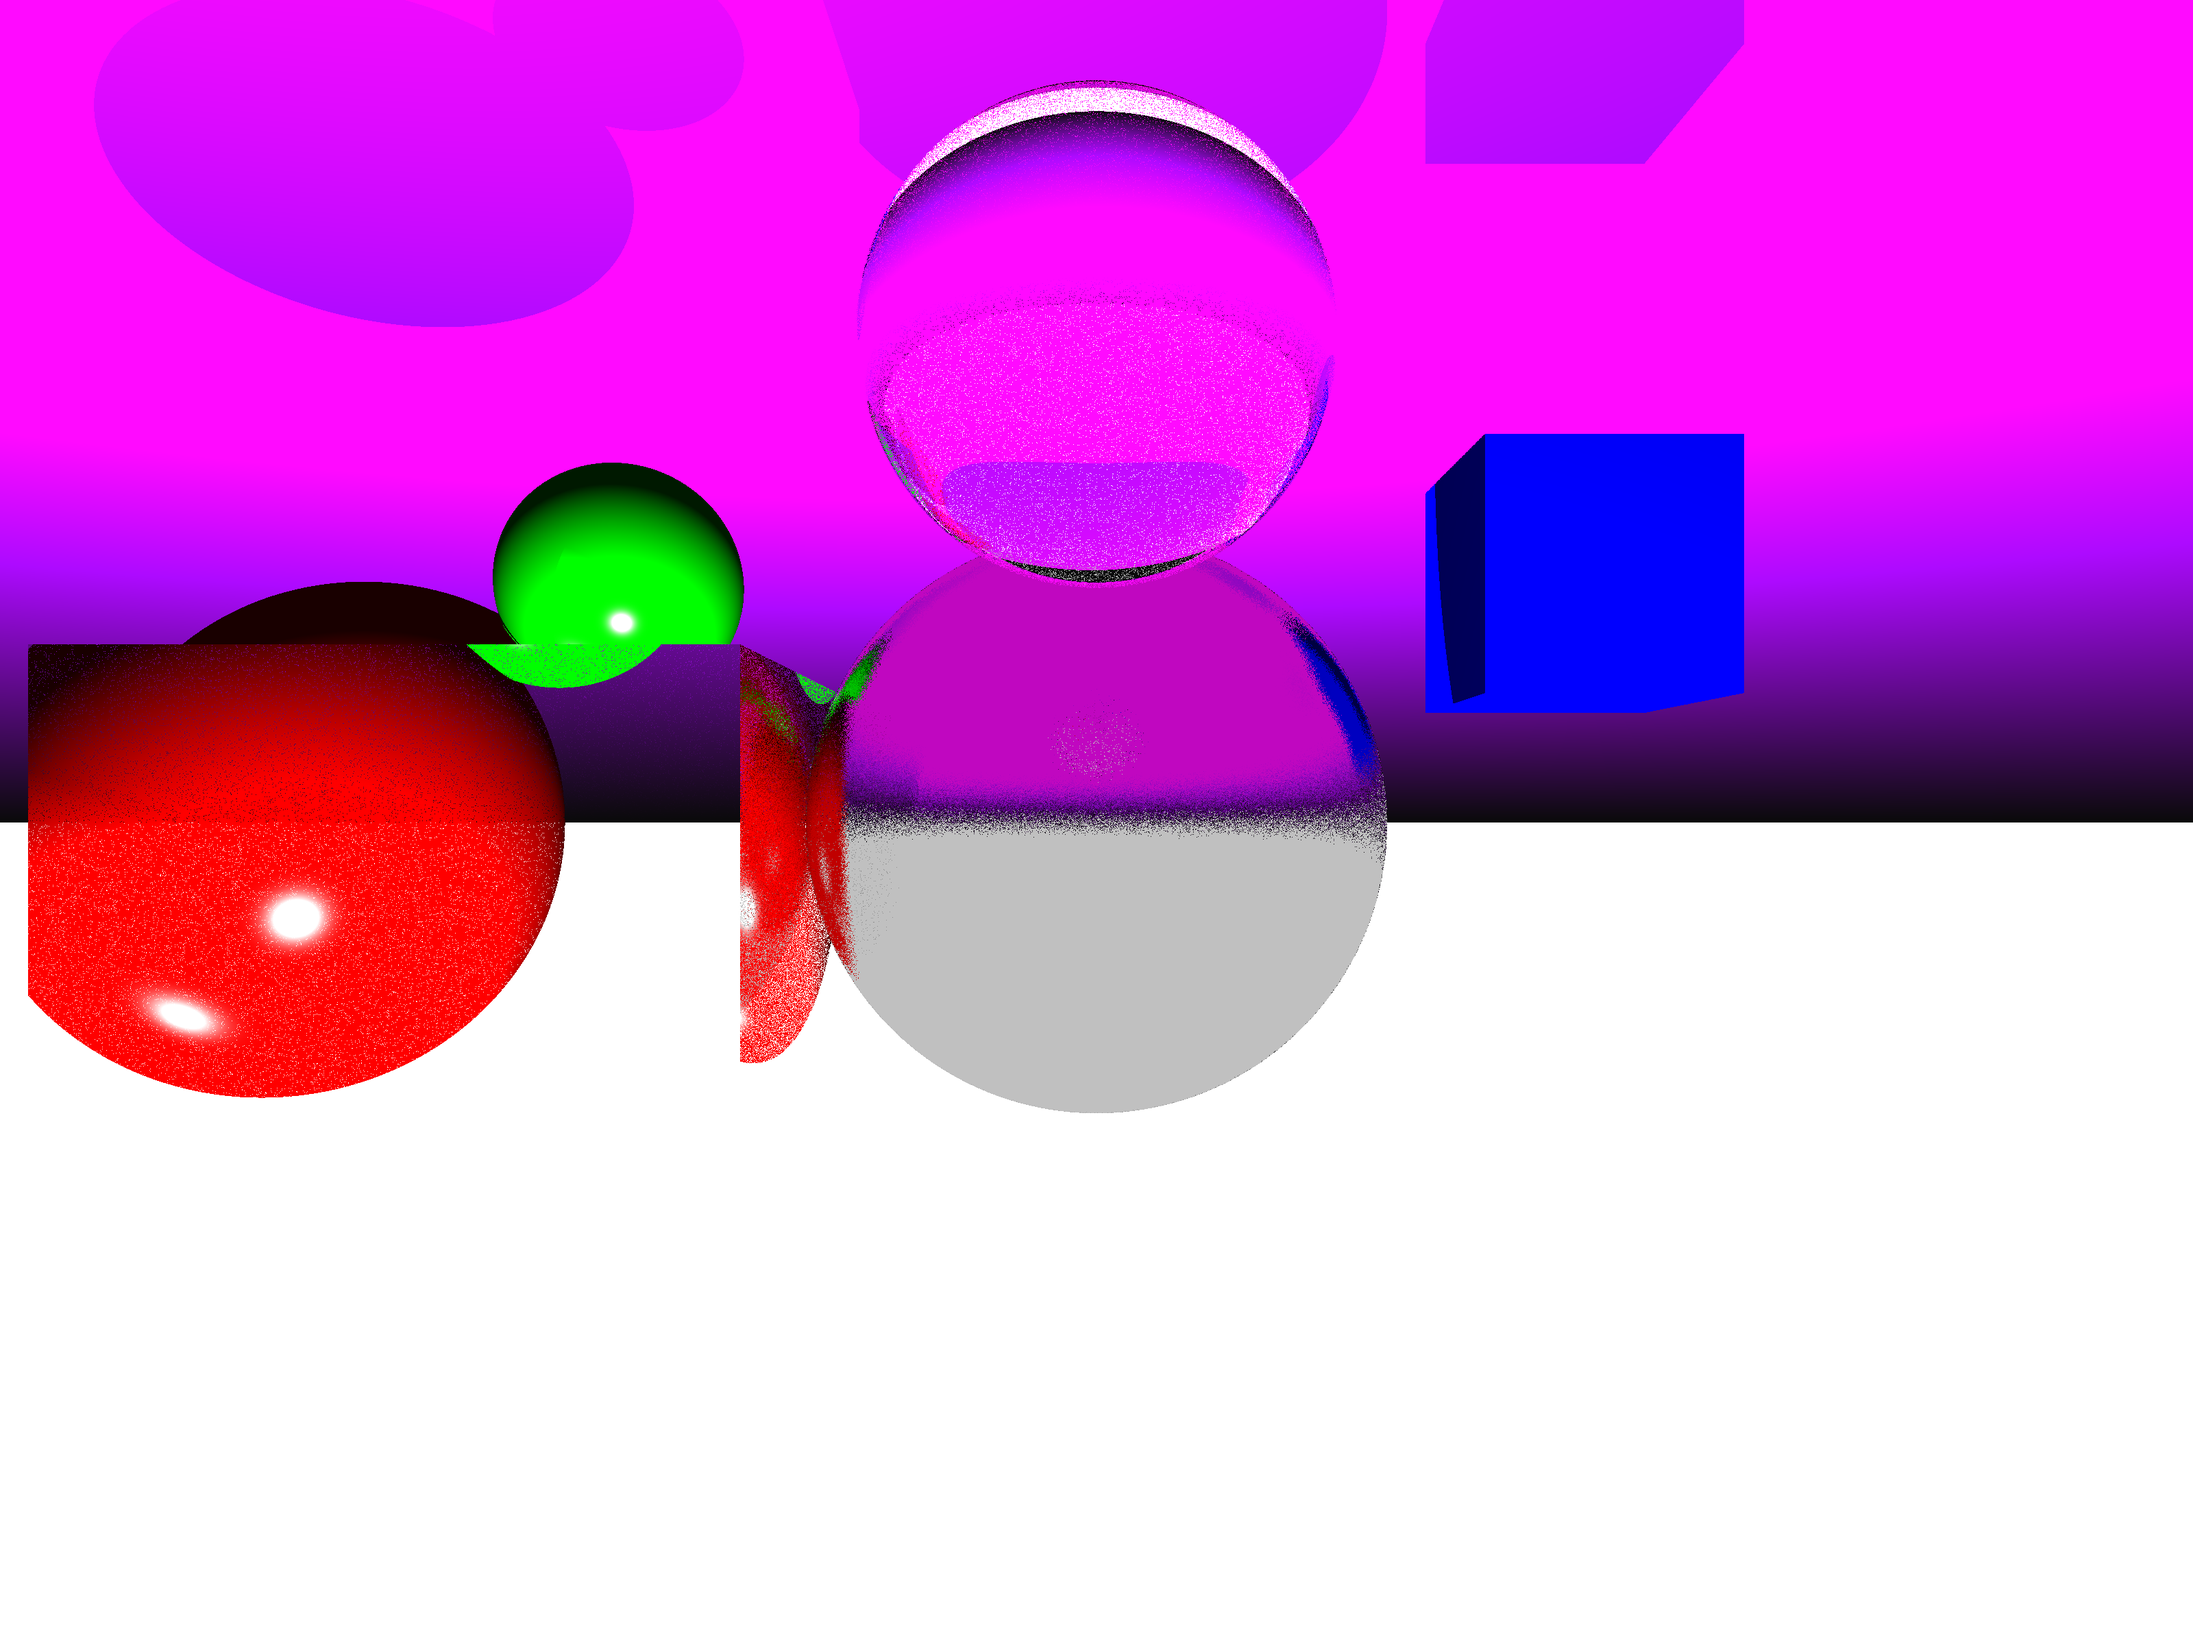
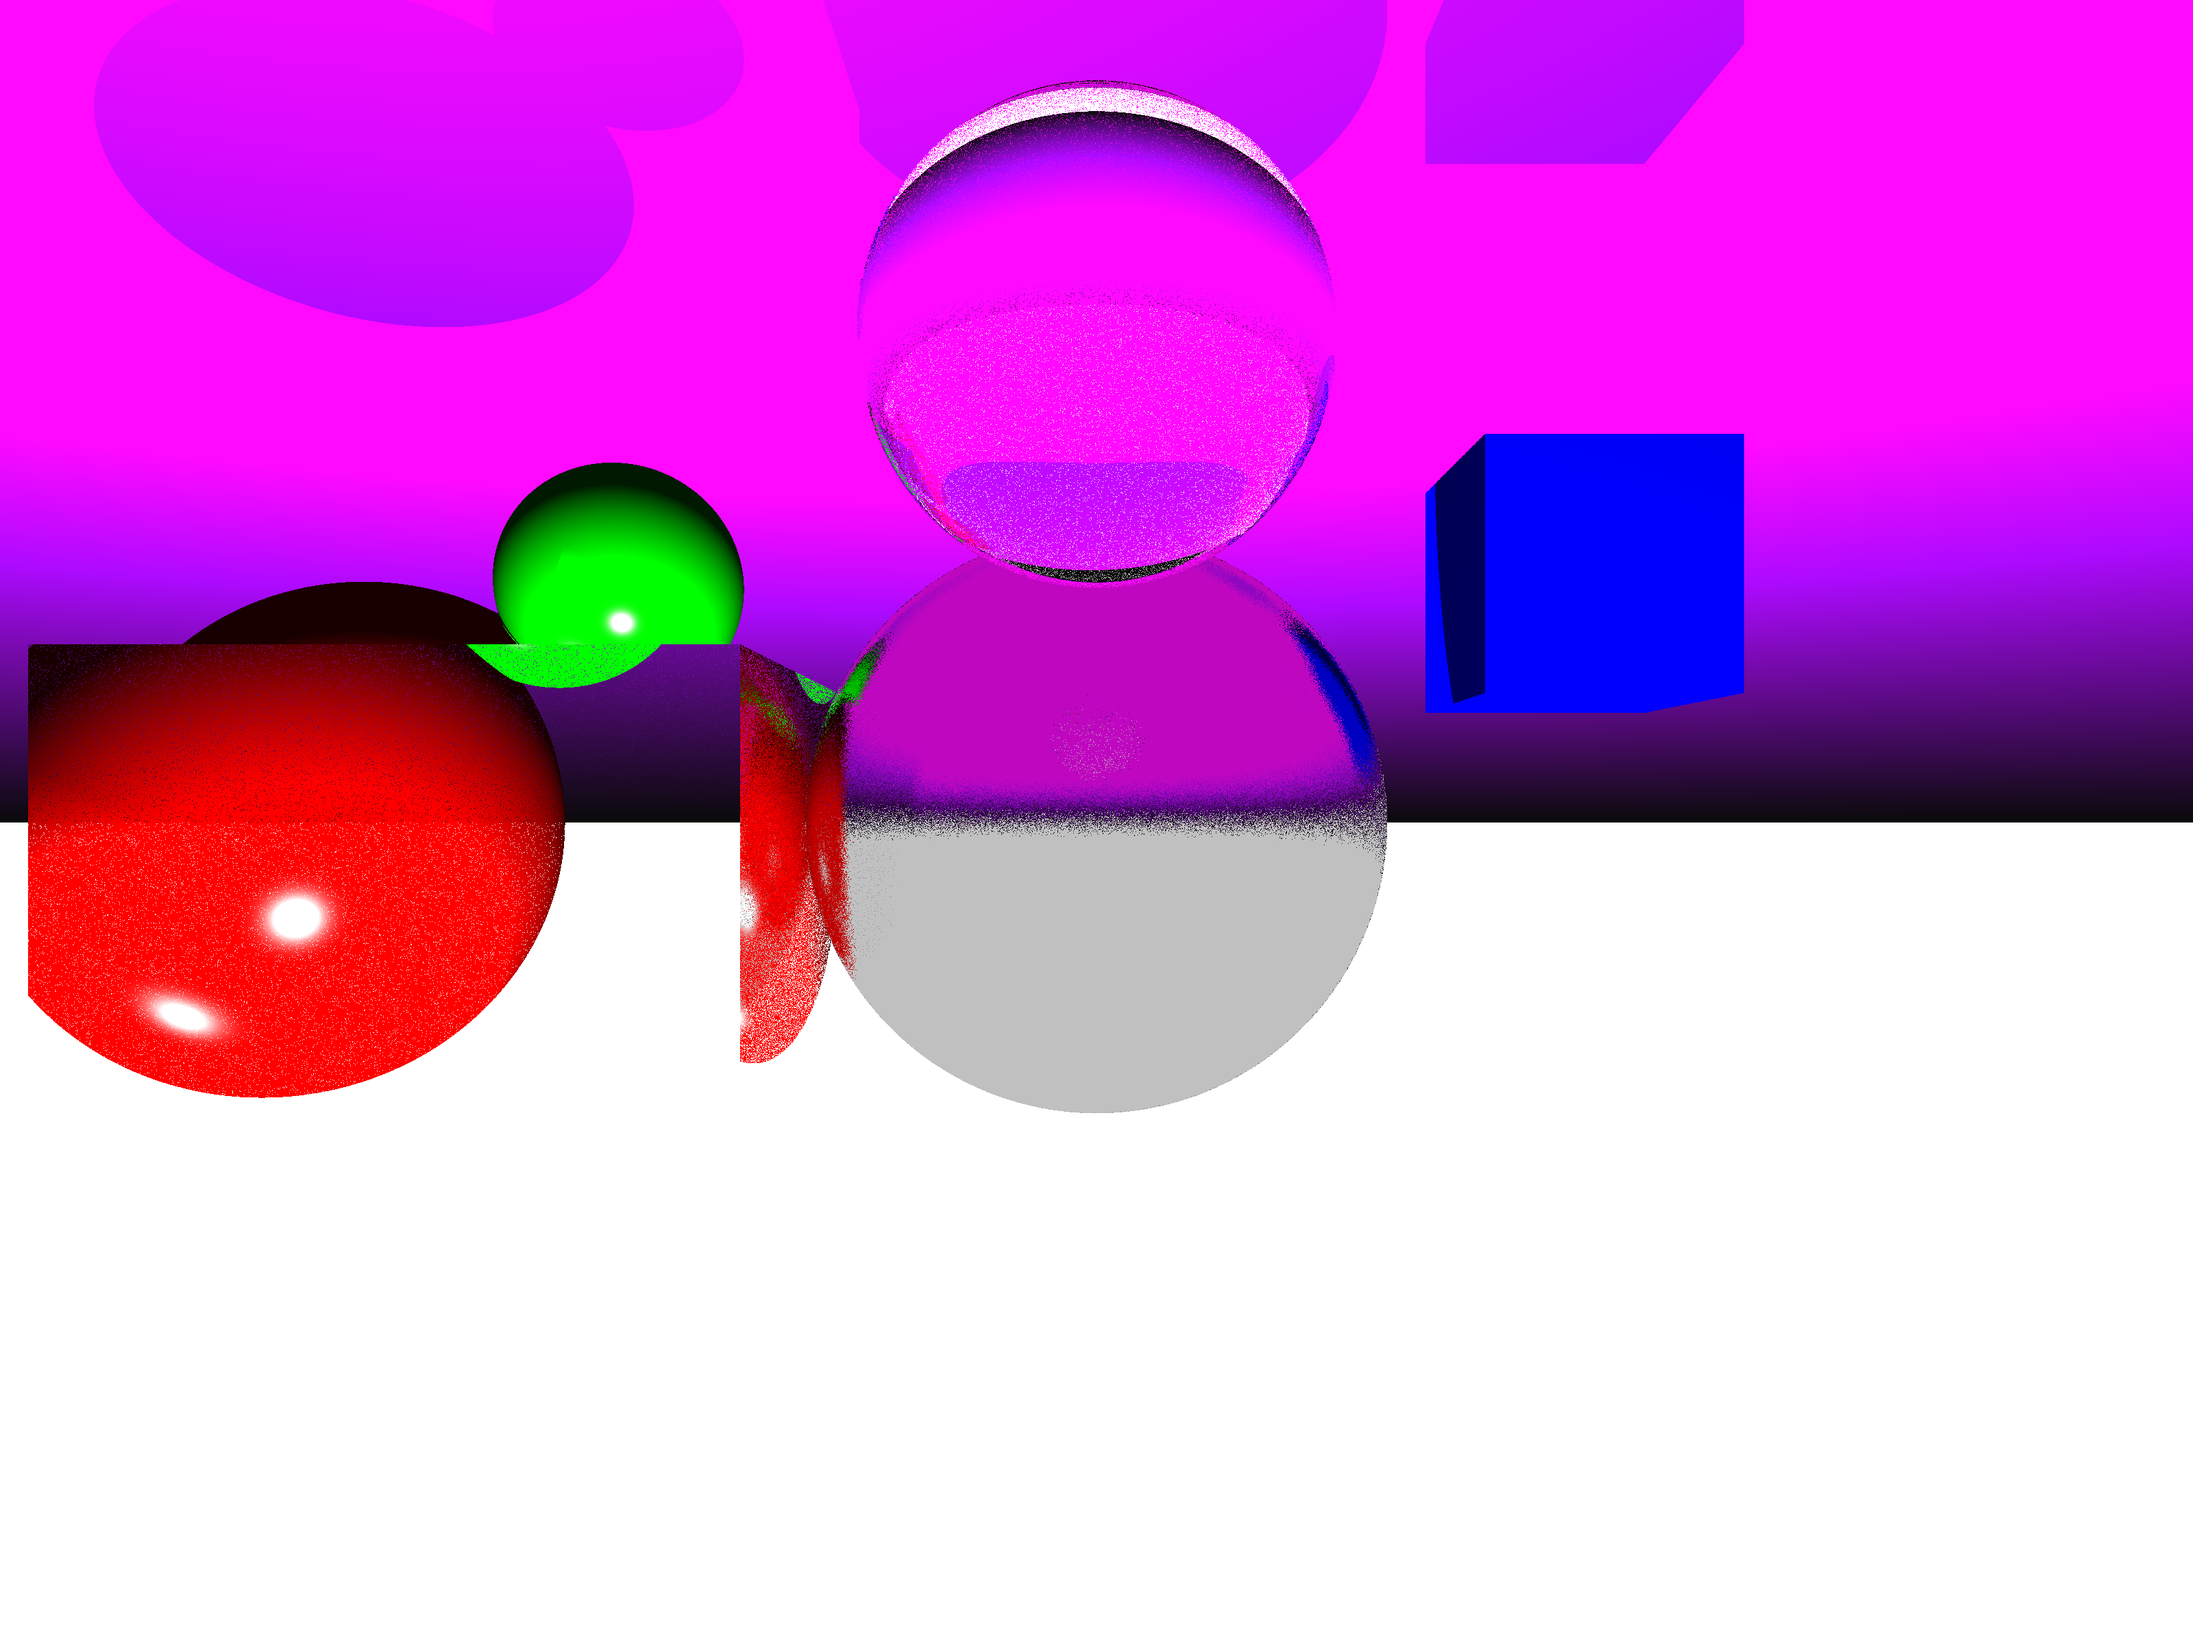
Minor updates

diff --git a/src/main/java/org/example/Main.java b/src/main/java/org/example/Main.java
@@ -34,7 +34,7 @@ public class Main {
     public static final int SCALE = 4;
     public static final int WIDTH = 800 * SCALE;
     public static final int HEIGHT = 600 * SCALE;
-    public static final int MAX_DEPTH = 15;
+    public static final int MAX_DEPTH = 7;
 
     public static void main(String[] args) throws IOException {
         BufferedImage image = new BufferedImage(WIDTH, HEIGHT, BufferedImage.TYPE_INT_RGB);
@@ -48,9 +48,9 @@ public class Main {
         Texture earthTexture = new ImageTexture("src/main/resources/earth.jpg");
 
         SinusoidalTexture sinusoidalTexture = new SinusoidalTexture();
-        sinusoidalTexture.setBase(new Color(120, 110, 100));
+        sinusoidalTexture.setBase(new Color(255, 126, 0));
         sinusoidalTexture.setMultiply(100);
-        sinusoidalTexture.setVeined(new Color(200, 200, 200));
+        sinusoidalTexture.setVeined(new Color(0, 119, 255));
 
         // TextureMaterial
         Material earth = new TextureMaterial(earthTexture);
@@ -73,6 +73,23 @@ public class Main {
 
         // Metal
         Material metal = new MetalMaterial(new Color(192, 192, 192), 0.1);
+
+        Material wall2Material = new TextureMaterial(
+                new GradientTexture(
+                        new Color(255, 0, 0),
+                        new Color(0, 61, 255),
+                        -3, 5.0 // диапазон Y в сцене
+                )
+        );
+
+        Material backgroundMat = new TextureMaterial(
+                new GradientTexture(
+                        new Color(239, 239, 239), // bottom — светло-серый
+                        new Color(0, 70, 255),  // top — небесный синий
+                        -1.5, 3.0                 // диапазон Y сцены
+                )
+        );
+
 
         scene.addObject(new Plane(new Vector3(0, -6, 0), new Vector3(0, 1, 0), wallMaterial));  // потолок
 //        scene.addObject(new Plane(new Vector3(0, 5, 0),    new Vector3(0, -1, 0), wallMaterial)); // пол
@@ -114,48 +131,50 @@ public class Main {
         int[][] pixelBuffer = new int[HEIGHT][WIDTH];
 
         // Рендеринг сцены с прогресс-баром
+//
         try (ProgressBar pb = new ProgressBar("Ray tracing", WIDTH * HEIGHT)) {
             List<Future<?>> tasks = new ArrayList<>();
 
             for (int y = 0; y < HEIGHT; y++) {
-                final int row = y;
-                tasks.add(executor.submit(() -> {
-                    for (int x = 0; x < WIDTH; x++) {
-                        Ray ray = camera.getRay(x, row);
-                        Color color = scene.trace(ray, MAX_DEPTH);
-                        pixelBuffer[row][x] = color.getRGB();
-                        pb.step();
-                        pixelCounter.incrementAndGet();
-                    }
-                }));
-            }
-
-            for (Future<?> task : tasks) {
-                try {
-                    task.get();
-                } catch (Exception e) {
-                    e.printStackTrace();
+                //                tasks.add(executor.submit(() -> {
+                for (int x = 0; x < WIDTH; x++) {
+                    Ray ray = camera.getRay(x, y);
+                    Color color = scene.trace(ray, MAX_DEPTH);
+                    pixelBuffer[y][x] = color.getRGB();
+                    pb.step();
+                    pixelCounter.incrementAndGet();
+//                    }
+//                }));
+//            }
                 }
             }
-        }
+//            for (Future<?> task : tasks) {
+//                try {
+//                    task.get();
+//                } catch (Exception e) {
+//                    e.printStackTrace();
+//                }
+//            }
+//        }
 
-        long endTime = System.nanoTime();
-        executor.shutdown();
+            long endTime = System.nanoTime();
+            executor.shutdown();
 
-        for (int y = 0; y < HEIGHT; y++) {
-            for (int x = 0; x < WIDTH; x++) {
-                image.setRGB(x, y, pixelBuffer[y][x]);
+            for (int y = 0; y < HEIGHT; y++) {
+                for (int x = 0; x < WIDTH; x++) {
+                    image.setRGB(x, y, pixelBuffer[y][x]);
+                }
             }
+
+            // Сохранение изображения
+            try (ProgressBar progressBar = new ProgressBar("Saving file", 1)) {
+                ImageIO.write(image, "png", new File("output.png"));
+                progressBar.step();
+            }
+
+            double duration = (endTime - startTime) / 1_000_000_000.0;
+
+            System.out.println("Время рендеринга: " + String.format("%.2f", duration) + "c.");
         }
-
-        // Сохранение изображения
-        try (ProgressBar pb = new ProgressBar("Saving file", 1)) {
-            ImageIO.write(image, "png", new File("output.png"));
-            pb.step();
-        }
-
-        double duration = (endTime - startTime) / 1_000_000_000.0;
-
-        System.out.println("Время рендеринга: " + String.format("%.2f", duration) + "c.");
     }
 }

diff --git a/src/main/java/org/example/material/textures/SinusoidalTexture.java b/src/main/java/org/example/material/textures/SinusoidalTexture.java
@@ -13,8 +13,8 @@ public class SinusoidalTexture implements Texture {
     @Override
     public Color getColor(double u, double v, Vector3 point) {
         // Псевдошум: волны по координатам
-        double pattern = Math.sin(multiply * point.x + 5 * Math.sin(multiply * point.z))
-                + Math.sin(multiply * point.y + 5 * Math.sin(multiply * point.x));
+        double pattern = Math.sin(multiply * point.x + 1 * Math.sin(multiply * point.z))
+                + Math.sin(multiply * point.y + 1  * Math.sin(multiply * point.x));
 
         pattern = (Math.sin(pattern) + 1) / 2.0; // [0, 1]
 
